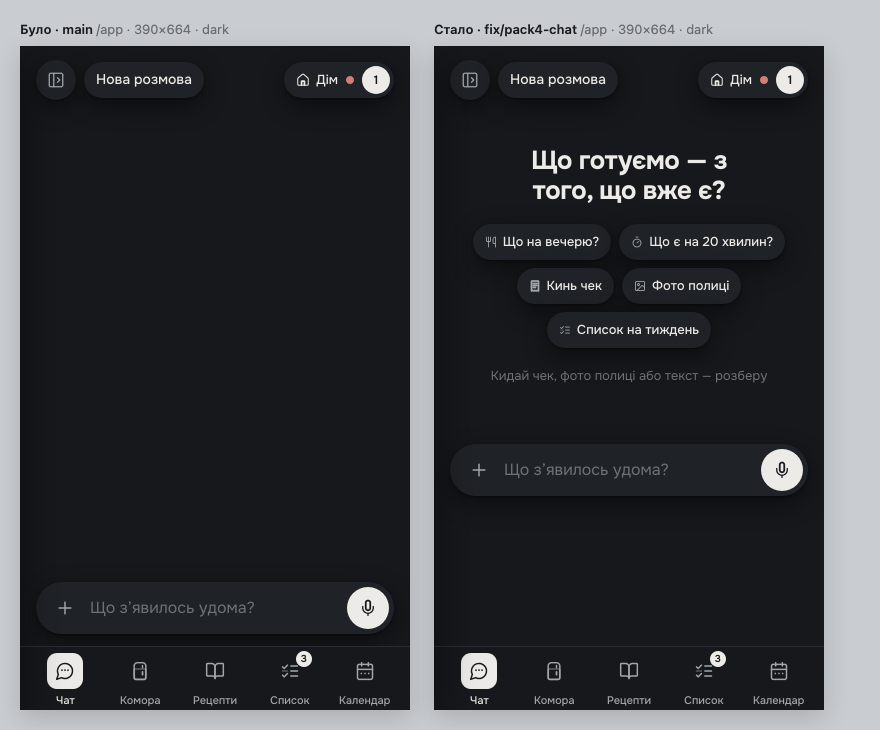
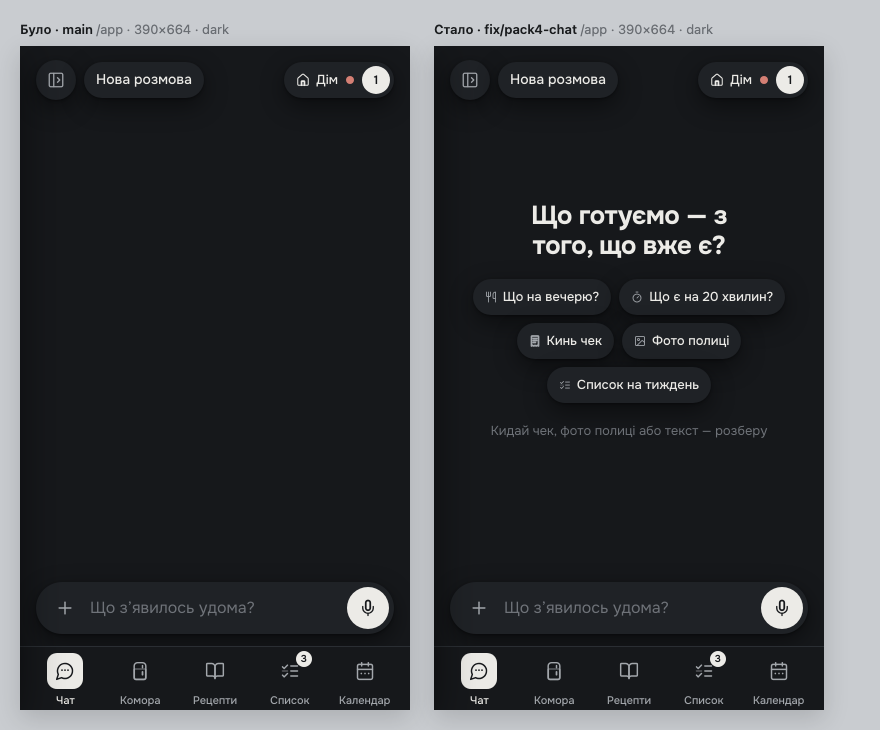
Пакет 4 №1 на 390 — за спрощеним макетом «Чат · порожня розмова · 390»: блок підказок по центру стрічки, композитор лишається внизу і не зʼїжджає при першому ході
Контейнерний поріг G3 (<704): .composer-wrap не росте, стрічка з
відступом як завжди, .empty-hero { margin: auto 0 } — центр стрічки;
заголовок у два рядки, чіпи 2 · 2 · 1. На ≥704 — як було (композитор по
центру, зʼїзд за --dur-slow). Р123 доповнено; пари chat-empty-390 обидві теми
перезнято, chat-first-turn-390 без змін.

diff --git a/apps/web/src/pages/Feed/Feed.module.css b/apps/web/src/pages/Feed/Feed.module.css
@@ -1597,6 +1597,14 @@ a.att-chip:hover { border-color: var(--sage); }
 /* Стрічка на порожній розмові не менша за свій вміст (заголовок + чіпи у 2–3 ряди на 390): інакше на 664 вона
    ділила висоту з композитором навпіл і сама скролилась. */
 [data-chat-empty] .timeline { min-height: fit-content; padding-top: calc(100px + env(safe-area-inset-top, 0px)); } /* заголовок не заходить під шапку (56 + фейд 40), коли висоти на центрування бракує (390×664) */
+/* 390 (Screens «Чат · порожня розмова · 390», власник 13.09): макет спрощений — блок підказок стоїть по центру
+   СТРІЧКИ, композитор лишається внизу на своєму місці й при першому ході не зʼїжджає (нема куди); гаснуть лише
+   підказки. Заголовок у два рядки, чіпи 2 · 2 · 1. Поріг — той самий контейнерний G3 (<704), що й у шапки. */
+@container chat (max-width: 703px) {
+  [data-chat-empty] .composer-wrap { flex-grow: 0; }
+  [data-chat-empty] .timeline { min-height: 0; padding-top: calc(64px + env(safe-area-inset-top, 0px)); }
+  .empty-hero { margin: auto 0; padding: 0 8px; }
+}
 @media (prefers-reduced-motion: reduce) {
   .empty-hero, .composer-wrap { transition: none; }
 }

diff --git a/DEVIATIONS-V3.md b/DEVIATIONS-V3.md
@@ -2669,8 +2669,10 @@ fonttools/pyftsubset; лишається 26 kB на лендінгу. Рядки
 розберу». Слова — з кадру. Блок і композитор центруються по вертикалі стрічки
 (блок у низу стрічки, `.composer-wrap` росте на порожній розмові); з першим
 ходом композитор зʼїжджає вниз за `--dur-slow`, чіпи гаснуть за `--dur-fast`,
-стрічка росте від композитора (№3); reduce — миттєво. На 390 чіпи — у два
-ряди. Знаки: utensils → `cook.serve`, timer → `cook.timer`, receipt →
+стрічка росте від композитора (№3); reduce — миттєво. На 390 (кадр «Чат ·
+порожня розмова · 390», власник 13.09: макет спрощений) — блок підказок по
+центру стрічки, композитор лишається внизу і при першому ході не зʼїжджає,
+гаснуть лише підказки; заголовок у два рядки, чіпи 2 · 2 · 1. Знаки: utensils → `cook.serve`, timer → `cook.timer`, receipt →
 `sys.receipt`, image → `sys.gallery`, list-checks → `sys.list` (словник без
 нових гліфів). Тести на порожній стан і зникнення після першого ходу. Пари
 `pack4-chat/chat-empty-1440-*`, `chat-empty-390-*`, кадр після першого ходу
